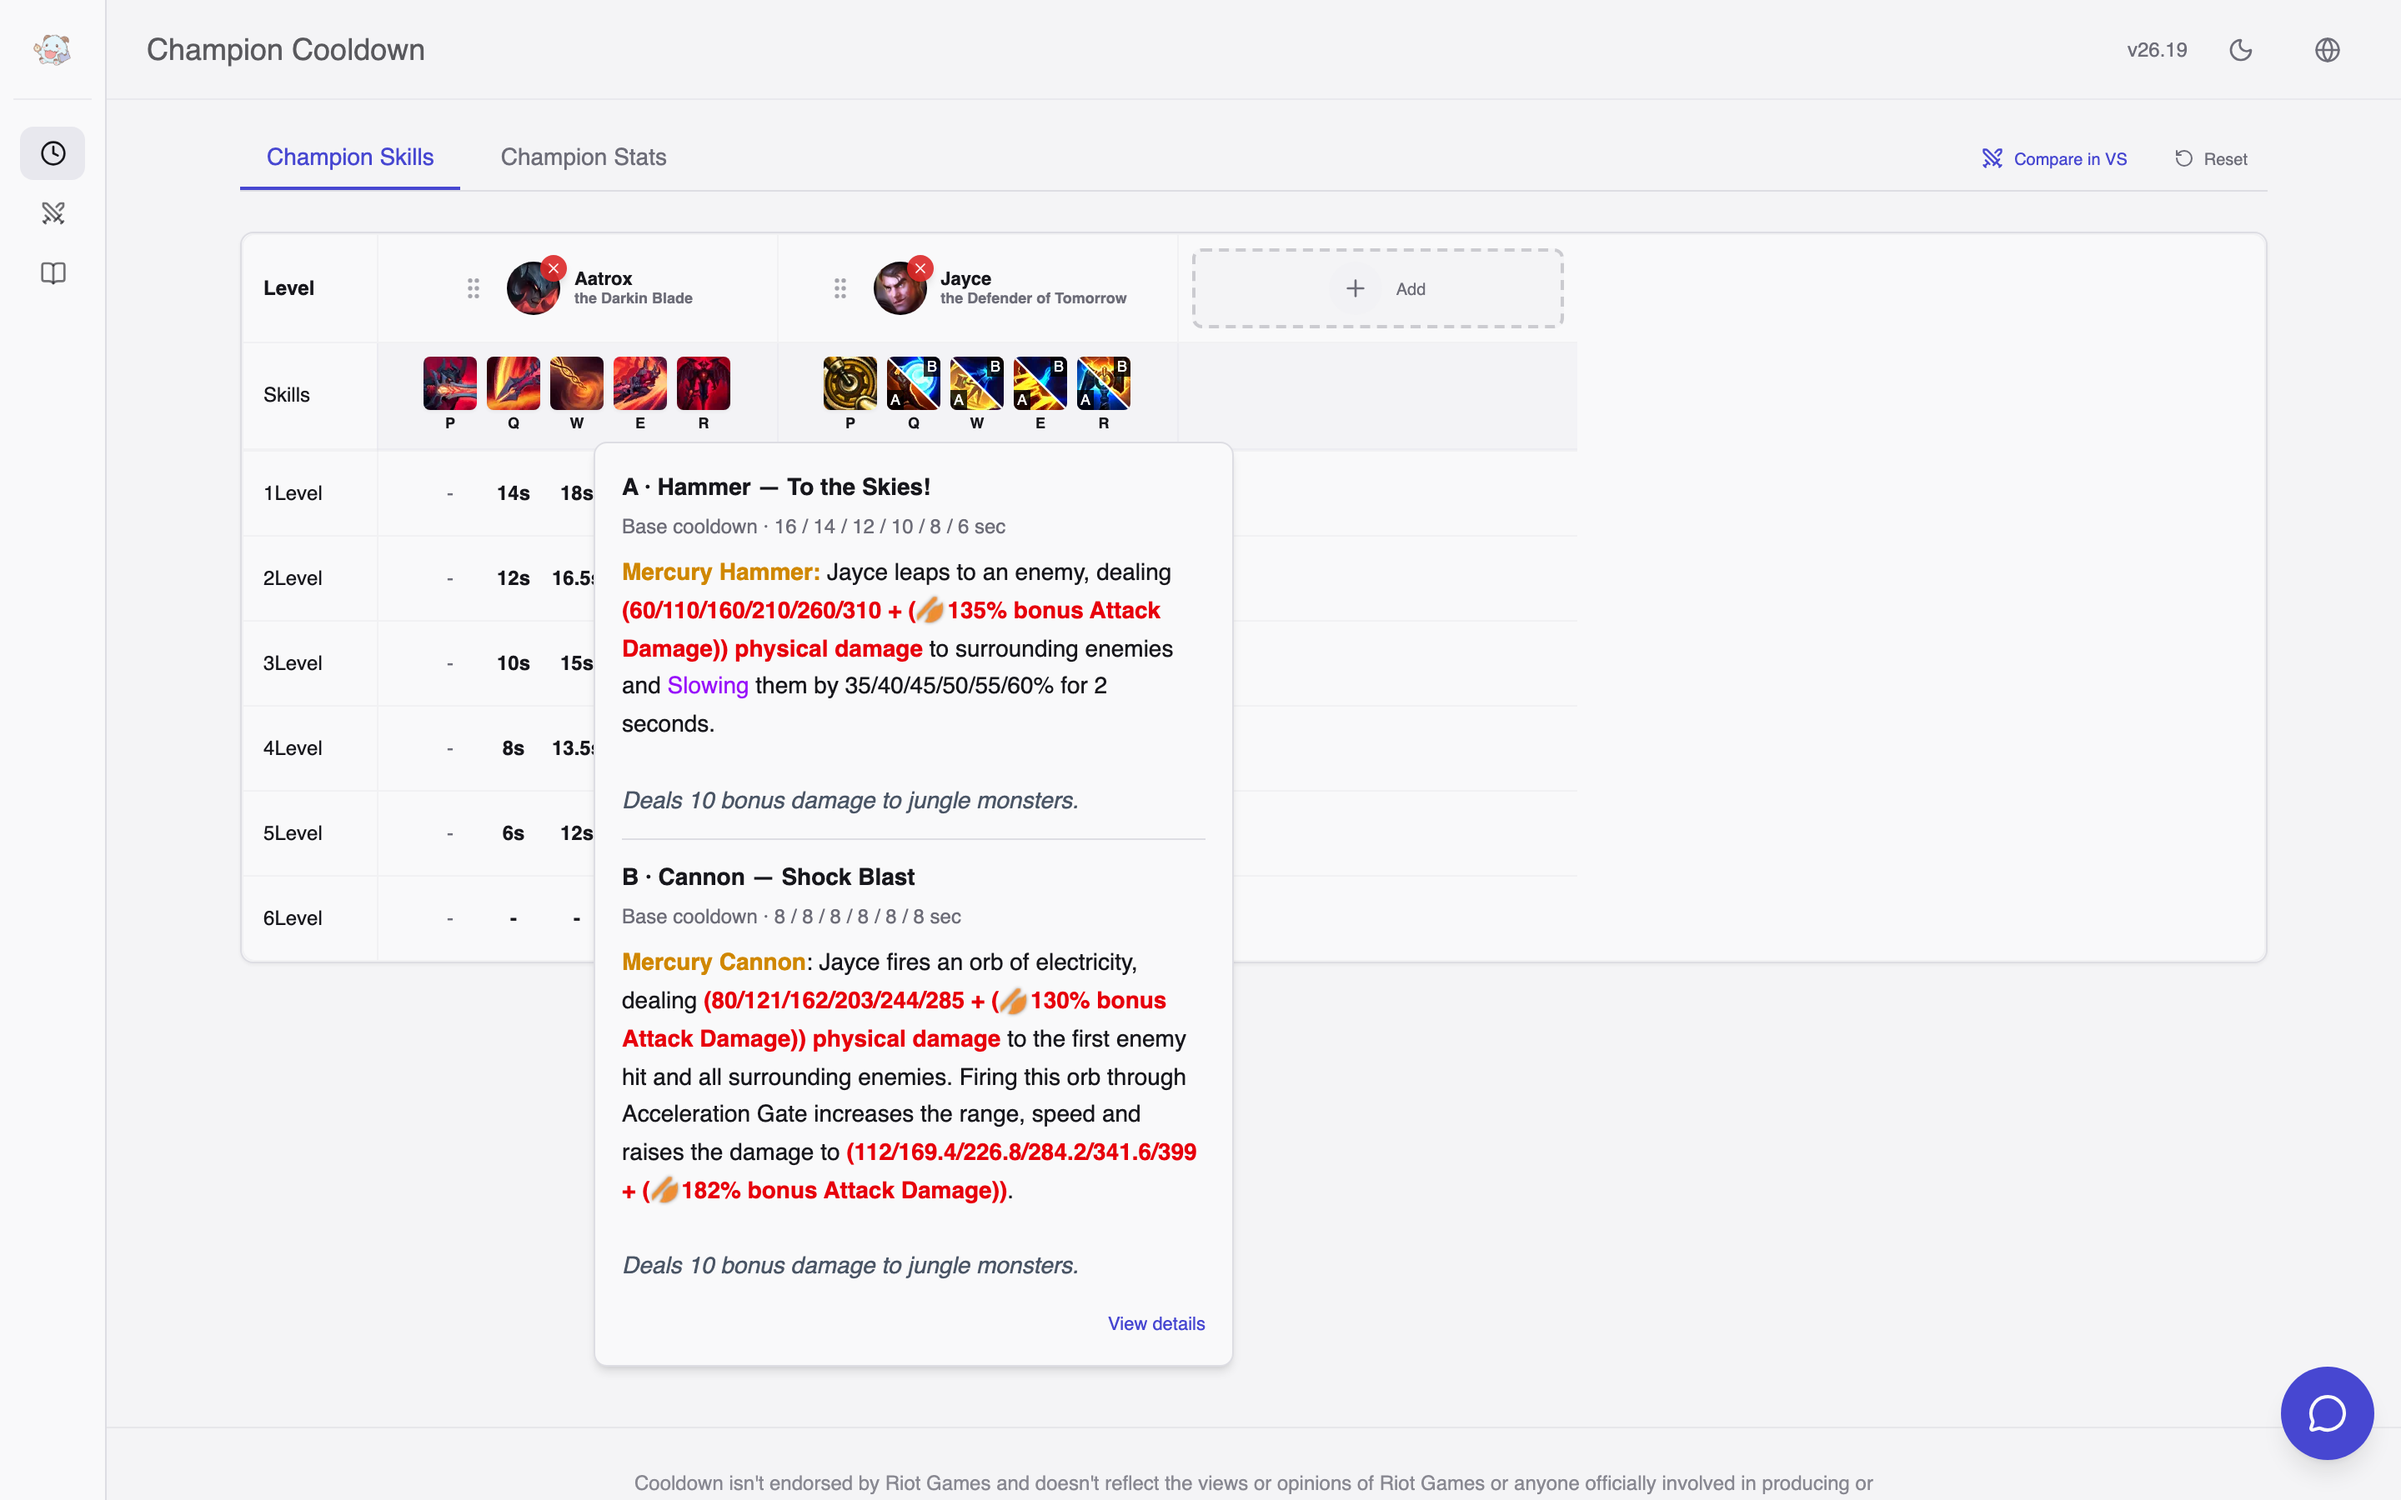
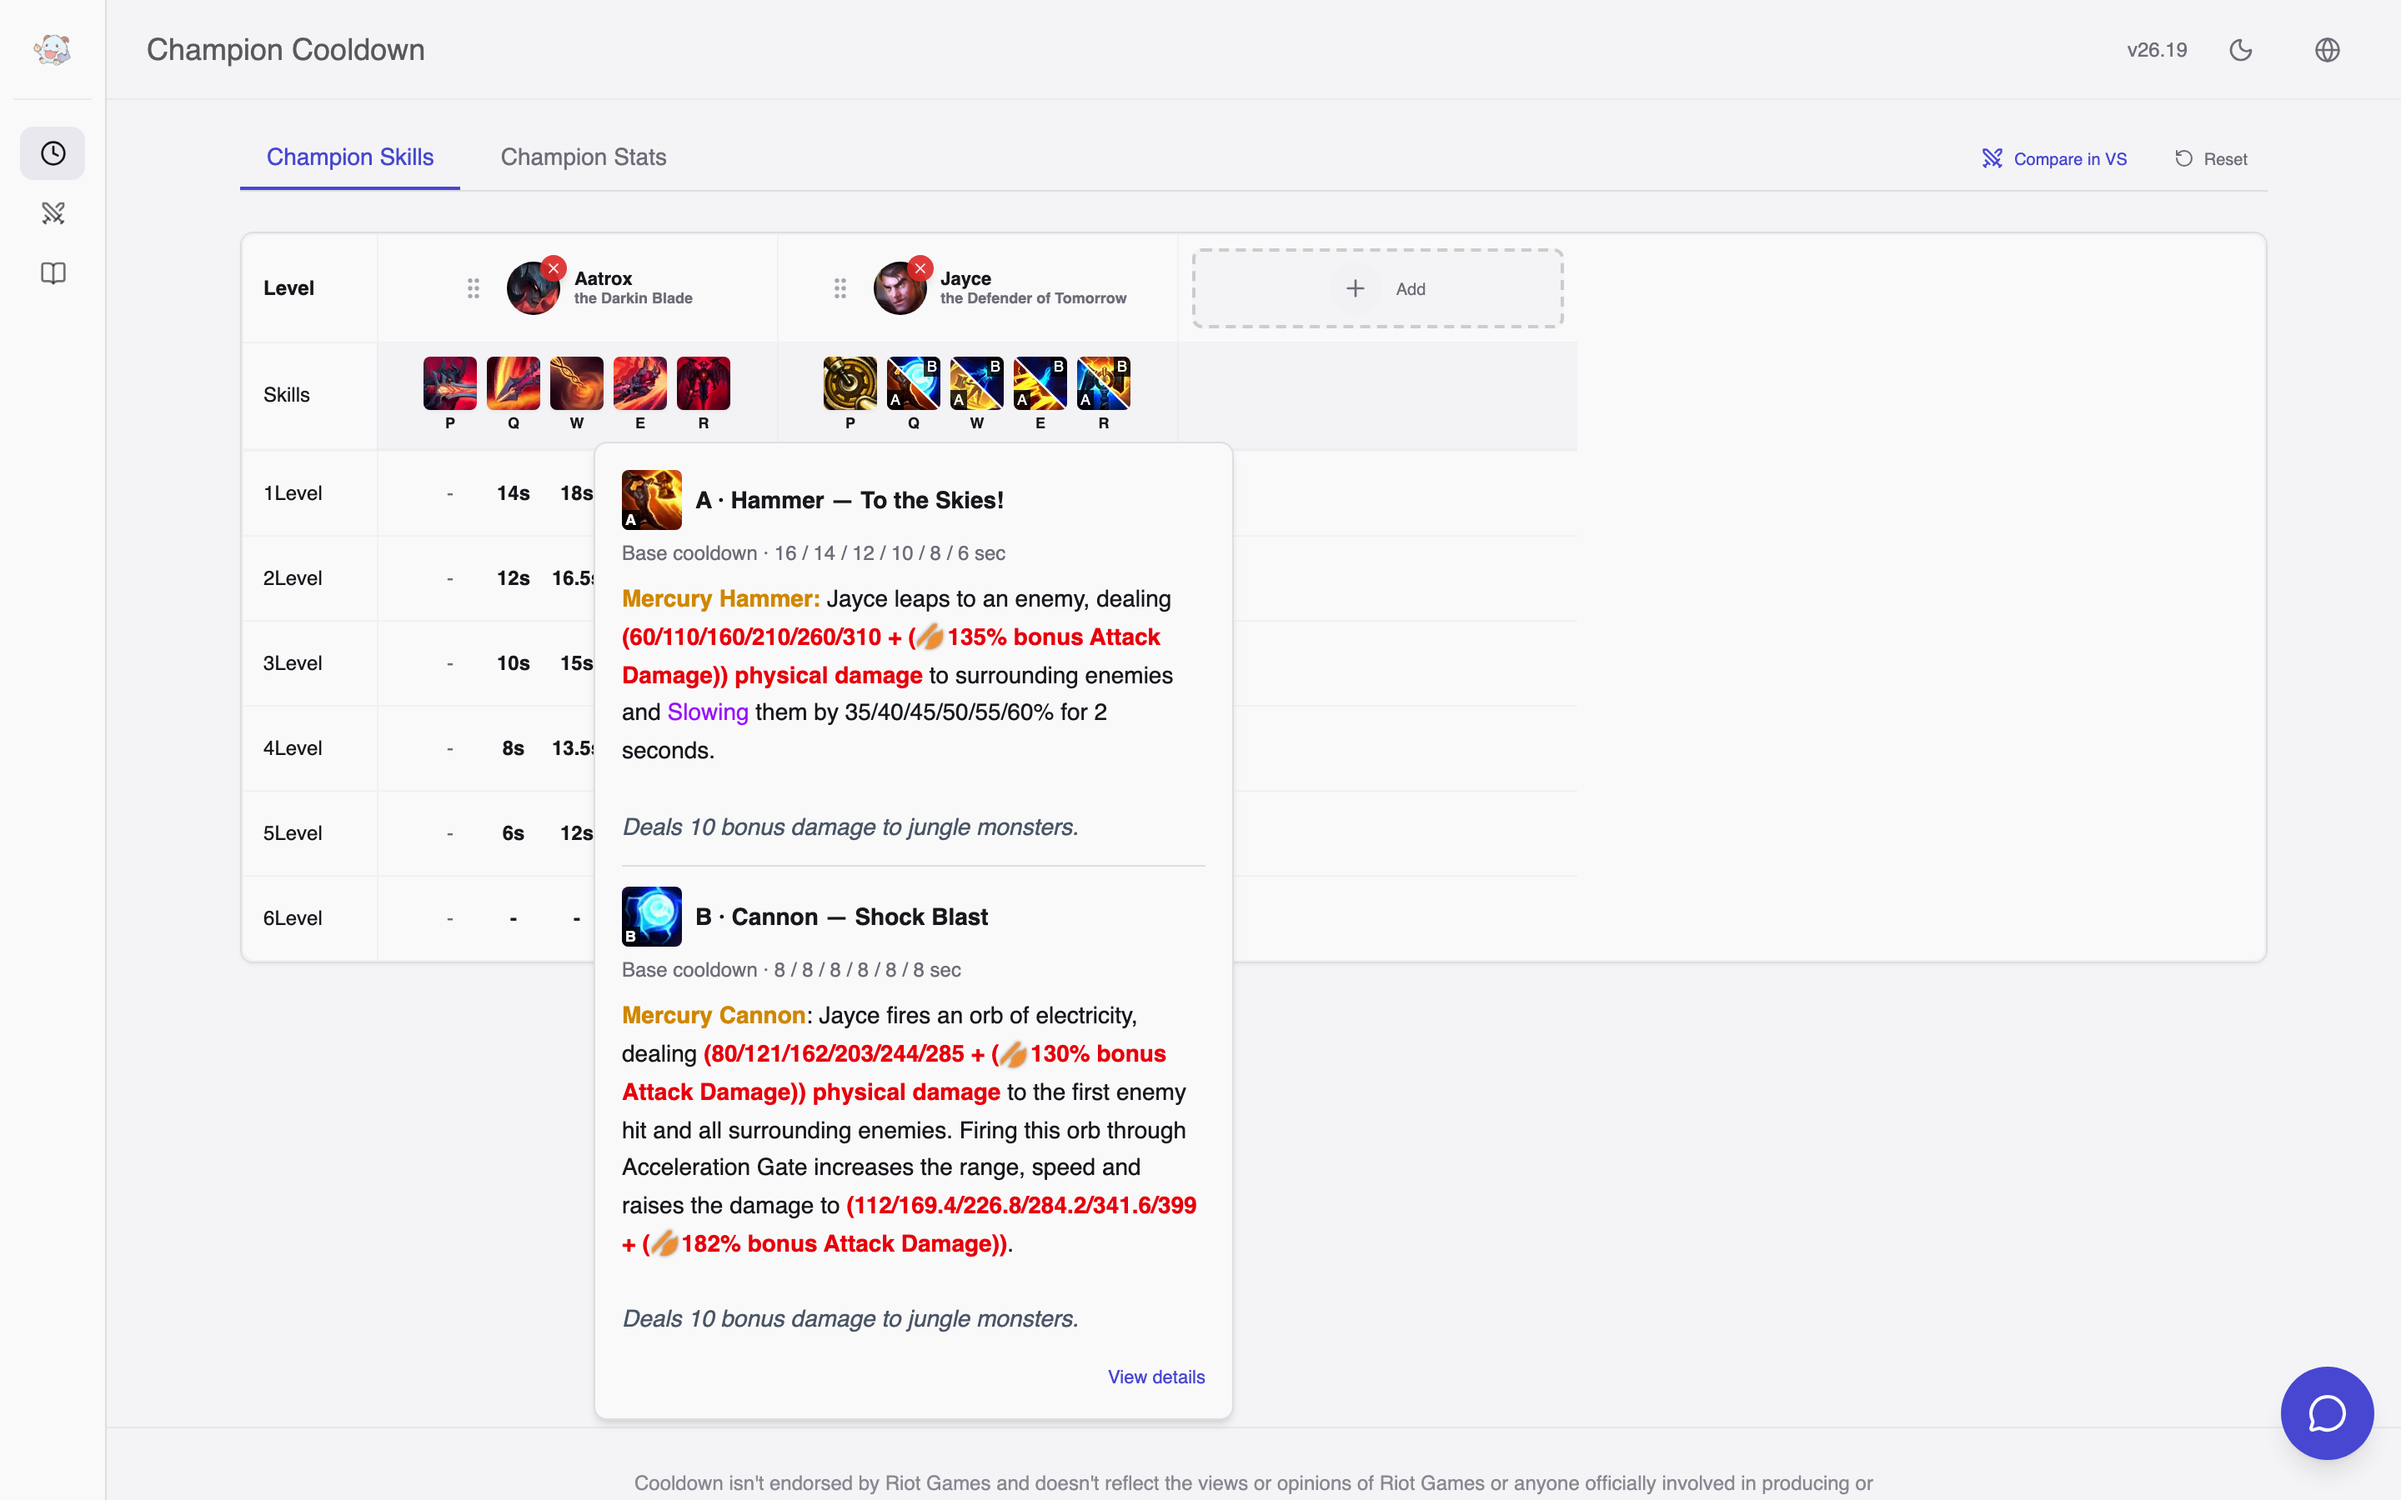
feat: 변신 스킬 툴팁의 형태 절마다 온전한 아이콘과 A/B 딱지를 달아 표의 반쪽 아이콘과 이어지게 한다

Changed region(s): [[0.25, 0.3111, 0.5, 0.9333]]

diff --git a/src/components/features/ChampionComparison/AbilityFormDetails.tsx b/src/components/features/ChampionComparison/AbilityFormDetails.tsx
@@ -1,14 +1,25 @@
 import type { AbilityForm } from "@/data/contracts/championData";
+import { formIconUrl } from "@/data/assets/riotAssetUrls";
 import { SafeBlockHtml } from "@/components/ui/safe-html";
 import { useTranslation } from "@/i18n";
 
-export function AbilityFormDetails({ forms }: { forms: AbilityForm[] }) {
+/**
+ * 변신 스킬의 형태별 설명. 표에서는 두 아이콘을 대각선으로 겹쳐 A/B 딱지를 붙이는데,
+ * 여기서는 형태마다 온전한 아이콘에 같은 딱지를 달아 표의 반쪽과 설명 절이 눈으로 이어지게 한다.
+ */
+export function AbilityFormDetails({ forms, ddragonVersion }: { forms: AbilityForm[]; ddragonVersion: string }) {
   const { t } = useTranslation();
   return (
     <div className="divide-y divide-border" data-form-details>
       {forms.map((form) => (
         <section key={form.key} className="py-3 first:pt-0 last:pb-0" data-ability-form={form.key}>
-          <h3 className="mb-1.5 text-sm font-semibold">{form.key} · {form.label} — {form.name}</h3>
+          <h3 className="mb-1.5 flex items-center gap-2 text-sm font-semibold">
+            <span className="relative inline-block size-9 shrink-0 overflow-hidden rounded bg-muted" data-form-icon={form.key}>
+              <img src={formIconUrl(ddragonVersion, form.iconPath)} alt="" decoding="async" className="size-full object-cover shadow-none" style={{ boxShadow: "none" }} />
+              <span aria-hidden="true" className="absolute bottom-0 left-0 bg-black/80 px-0.5 text-[9px] leading-3 text-white">{form.key}</span>
+            </span>
+            <span className="min-w-0">{form.key} · {form.label} — {form.name}</span>
+          </h3>
           <p className="mb-2 text-xs text-muted-foreground">{t.comparison.cooldownNote} · {form.cooldownSeconds.length ? form.cooldownSeconds.join(" / ") + " " + t.comparison.seconds : "—"}</p>
           {form.tooltipRankSource === "R" && <p className="mb-2 text-xs text-muted-foreground">{t.comparison.formRankNote}</p>}
           <SafeBlockHtml html={form.bodyHtml} className="break-words text-sm leading-relaxed" />

diff --git a/src/pages/VsPage/VsAbilityRow.tsx b/src/pages/VsPage/VsAbilityRow.tsx
@@ -84,7 +84,7 @@ export function VsAbilityItem(props: { ability?: AbilityV2; slot: ListSlot; side
         {ability && (
           <div data-ability-body className="mt-1">
             {ability.forms
-              ? <AbilityFormDetails forms={ability.forms} />
+              ? <AbilityFormDetails forms={ability.forms} ddragonVersion={props.version} />
               : <SafeBlockHtml html={ability.bodyHtml || ability.summary} className="break-words text-xs leading-relaxed text-foreground/80" />}
             <VsAbilityCooldowns ability={ability} />
           </div>
@@ -114,8 +114,8 @@ export function VsSkillList(props: { side: VsSideKey; detail: ChampionDetailV2; 
   );
 }
 
-export function VsAbilityBody({ ability }: { ability: AbilityV2 }) {
-  if (ability.forms) return <div data-ability-body><AbilityFormDetails forms={ability.forms} /></div>;
+export function VsAbilityBody({ ability, version }: { ability: AbilityV2; version: string }) {
+  if (ability.forms) return <div data-ability-body><AbilityFormDetails forms={ability.forms} ddragonVersion={version} /></div>;
   return (
     <div data-ability-body className="mt-3 border-t border-border/60 pt-3">
       <SafeBlockHtml

diff --git a/src/pages/VsPage/VsMatrixSkill.tsx b/src/pages/VsPage/VsMatrixSkill.tsx
@@ -28,7 +28,7 @@ export function VsMatrixSkill(props: {
         {ability && (
           <TooltipContent side="top" className="w-[min(28rem,calc(100vw-2rem))] p-4 text-left font-normal">
             <p className="mb-3 text-sm font-semibold">{name} · {slot} {ability.name}</p>
-            {ability.forms ? <AbilityFormDetails forms={ability.forms} /> : <SafeBlockHtml html={ability.bodyHtml || ability.summary} className="break-words text-sm leading-relaxed" />}
+            {ability.forms ? <AbilityFormDetails forms={ability.forms} ddragonVersion={version} /> : <SafeBlockHtml html={ability.bodyHtml || ability.summary} className="break-words text-sm leading-relaxed" />}
           </TooltipContent>
         )}
       </Tooltip>

diff --git a/src/pages/VsPage/VsCooldownMatrix.tsx b/src/pages/VsPage/VsCooldownMatrix.tsx
@@ -153,7 +153,7 @@ export function VsCooldownMatrix({ sides, version, onSelect }: { sides: MatrixSi
         <DialogContent onCloseAutoFocus={(event) => { event.preventDefault(); returnFocus.current?.focus(); }} className="max-h-[85dvh] w-[calc(100%-2rem)] max-w-2xl overflow-y-auto">
           <DialogTitle className="pr-6 leading-normal">{selected?.name} · {selected?.slot} {selected?.ability.name}</DialogTitle>
           <DialogDescription>{t.comparison.details}</DialogDescription>
-          {selected && <VsAbilityBody ability={selected.ability} />}
+          {selected && <VsAbilityBody ability={selected.ability} version={version} />}
         </DialogContent>
       </Dialog>
     </section>

diff --git a/src/components/features/ChampionComparison/SkillTooltipContent.tsx b/src/components/features/ChampionComparison/SkillTooltipContent.tsx
@@ -92,7 +92,7 @@ function ActiveSkillHeader(props: SkillTooltipContentProps & { skill: ChampionSp
 function ActiveSkillContent(props: SkillTooltipContentProps) {
   const { skill } = props;
   if (!skill) return null;
-  if (skill.forms) return <AbilityFormDetails forms={skill.forms} />;
+  if (skill.forms) return <AbilityFormDetails forms={skill.forms} ddragonVersion={props.ddragonVersion} />;
   return (
     <>
       <ActiveSkillHeader {...props} skill={skill} />
